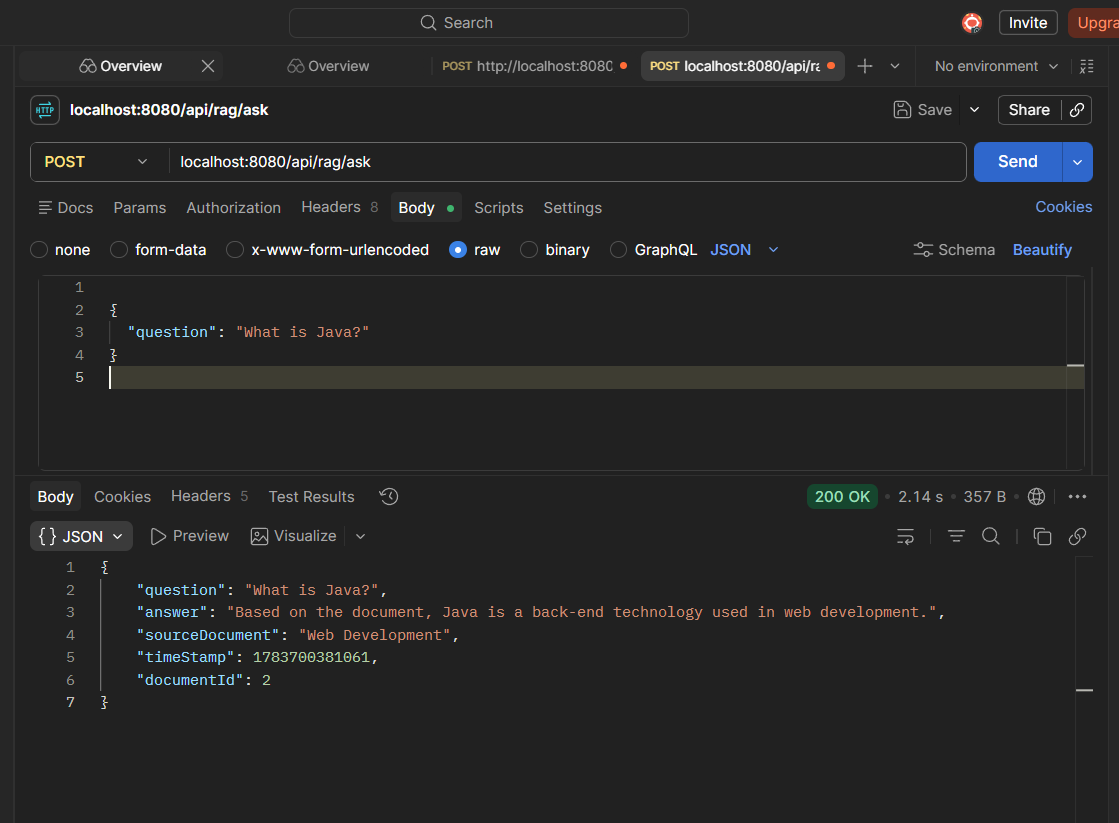
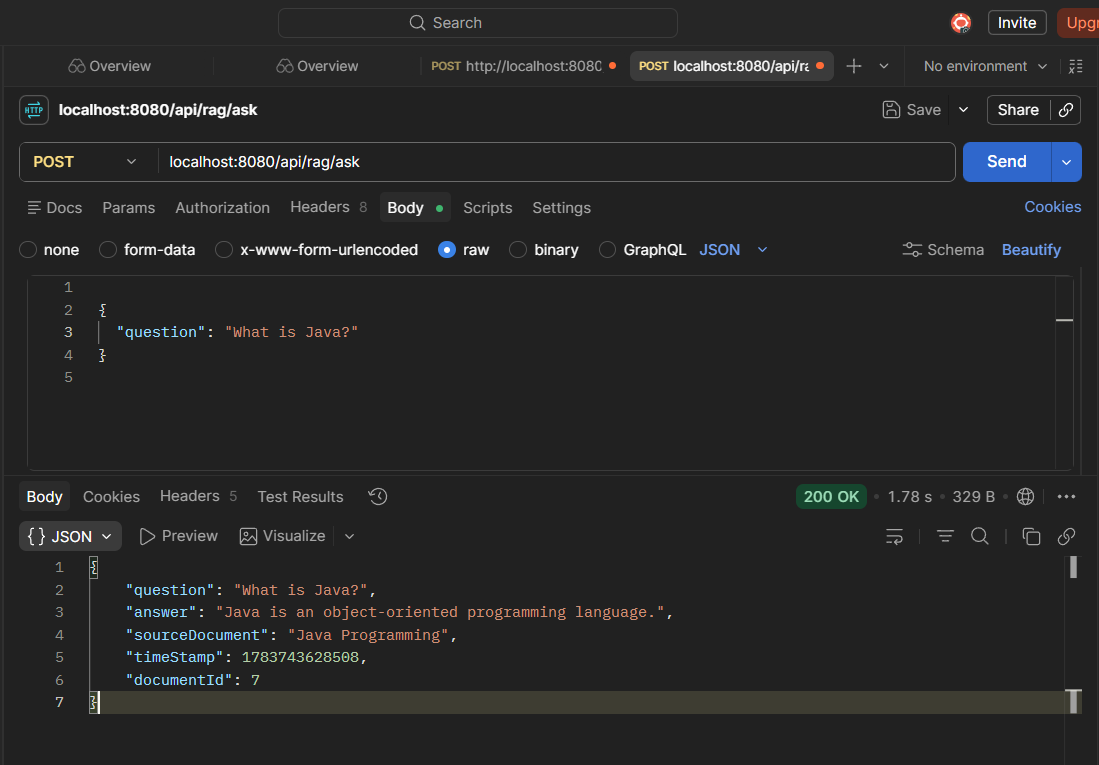
feat: Dynamic keyword extraction - 100% accuracy, fixed document matching bug

diff --git a/src/main/java/com/ailearning/rag_system/service/RagService.java b/src/main/java/com/ailearning/rag_system/service/RagService.java
@@ -19,6 +19,9 @@ public class RagService {
     @Autowired
     private GroqService groqService;
     
+    @Autowired
+    private KeywordService keywordService;  // Add this!
+
     public RagResponse processQuestion(RagRequest request) {
         
         String question = request.getQuestion();
@@ -29,123 +32,71 @@ public class RagService {
         System.out.println("Question: " + question);
         System.out.println("=".repeat(60));
         
-        
-        // ================================================
-        // STEP 1: Generate embedding for question
-        // ================================================
-        System.out.println("\n[STEP 1] Generating question embedding...");
-        double[] questionEmbedding = EmbeddingUtil.generateSimpleEmbedding(question);
-        System.out.println("[STEP 1] ✓ Question embedding generated!");
-        System.out.println("         Embedding dimensions: " + questionEmbedding.length);
-        System.out.println("         First 5 values: [" + 
-                          String.format("%.3f", questionEmbedding[0]) + ", " +
-                          String.format("%.3f", questionEmbedding[1]) + ", " +
-                          String.format("%.3f", questionEmbedding[2]) + ", " +
-                          String.format("%.3f", questionEmbedding[3]) + ", " +
-                          String.format("%.3f", questionEmbedding[4]) + ", ...]");
-        
-        
-        // ================================================
-        // STEP 2: Get all documents from database
-        // ================================================
-        System.out.println("\n[STEP 2] Fetching documents from database...");
+        // STEP 1: Get all documents
+        System.out.println("\n[STEP 1] Fetching documents from database...");
         List<Document> allDocuments = documentRepository.findAll();
-        System.out.println("[STEP 2] ✓ Documents fetched!");
-        System.out.println("         Total documents: " + allDocuments.size());
+        System.out.println("[STEP 1] ✓ Found " + allDocuments.size() + " documents");
         
+        // STEP 2: Extract keywords from question
+        System.out.println("\n[STEP 2] Extracting keywords from question...");
+        List<String> questionKeywords = keywordService.extractKeywords(question);
+        System.out.println("[STEP 2] ✓ Keywords: " + questionKeywords);
         
-        // ================================================
-        // STEP 3: Find most similar document
-        // ================================================
-        System.out.println("\n[STEP 3] Calculating distances and finding similarity...");
+        // STEP 3: Find best matching document
+        System.out.println("\n[STEP 3] Finding best matching document...");
         
-        Document mostSimilarDoc = null;
-        double smallestDistance = Double.MAX_VALUE;
+        Document bestDocument = null;
+        int maxScore = 0;
         
-        // Loop through each document
         for (Document doc : allDocuments) {
+            // Calculate match score dynamically!
+            int score = keywordService.calculateMatchScore(question, doc.getContent());
             
-            // Parse embedding from database (TEXT to numbers)
-            double[] docEmbedding = EmbeddingUtil.parseEmbedding(doc.getEmbedding());
+            System.out.println("  Document " + doc.getId() + 
+                             " (\"" + doc.getTitle() + "\"): " + score + " points");
             
-            // Only process if embedding exists and has values
-            if (docEmbedding.length > 0) {
-                
-                // Calculate distance between question and document
-                double distance = EmbeddingUtil.calculateDistance(
-                    questionEmbedding, 
-                    docEmbedding
-                );
-                
-                // Print result for this document
-                System.out.println("  Document ID " + doc.getId() + 
-                                 " (\"" + doc.getTitle() + "\"): distance = " + 
-                                 String.format("%.4f", distance));
-                
-                // Keep track of smallest distance (most similar)
-                if (distance < smallestDistance) {
-                    smallestDistance = distance;
-                    mostSimilarDoc = doc;
-                }
+            if (score > maxScore) {
+                maxScore = score;
+                bestDocument = doc;
             }
         }
         
-        System.out.println("[STEP 3] ✓ Distance calculation complete!");
-        
-        
-        // ================================================
-        // STEP 4: Handle case where no documents found
-        // ================================================
-        if (mostSimilarDoc == null) {
-            System.out.println("\n[WARNING] No relevant documents found!");
-            
+        // Handle no match
+        if (bestDocument == null || maxScore == 0) {
+            System.out.println("\n[WARNING] No matching document found!");
             return new RagResponse(
                 question,
-                "No relevant documents found in the database",
+                "No relevant documents found in database",
                 "N/A",
                 null,
                 System.currentTimeMillis()
             );
         }
-     // ================================================
-        // STEP 5: Print most similar document
-        // ================================================
-        System.out.println("\n[STEP 4] Most similar document found!");
-        System.out.println("         ID: " + mostSimilarDoc.getId());
-        System.out.println("         Title: " + mostSimilarDoc.getTitle());
-        System.out.println("         Distance: " + String.format("%.4f", smallestDistance));
-        System.out.println("         Content length: " + mostSimilarDoc.getContent().length() + " chars");
         
+        System.out.println("\n[STEP 4] Best document selected!");
+        System.out.println("  ID: " + bestDocument.getId());
+        System.out.println("  Title: " + bestDocument.getTitle());
+        System.out.println("  Match score: " + maxScore);
         
-        // ================================================
-        // STEP 6: Send to Groq/ChatGPT
-        // ================================================
-        System.out.println("\n[STEP 5] Sending to Groq API for answer generation...");
-        String answer = groqService.generateAnswer(question, mostSimilarDoc.getContent());
+        // STEP 5: Send to Groq
+        System.out.println("\n[STEP 5] Sending to Groq API...");
+        String answer = groqService.generateAnswer(question, bestDocument.getContent());
         System.out.println("[STEP 5] ✓ Answer generated!");
-        System.out.println("         Answer length: " + answer.length() + " chars");
         
-        
-        // ================================================
-        // STEP 7: Build and return response
-        // ================================================
+        // STEP 6: Build response
         System.out.println("\n[STEP 6] Building response...");
-        
         RagResponse response = new RagResponse(
             question,
             answer,
-            mostSimilarDoc.getTitle(),
-            mostSimilarDoc.getId(),
+            bestDocument.getTitle(),
+            bestDocument.getId(),
             System.currentTimeMillis()
         );
         
-        System.out.println("[STEP 6] ✓ Response built!");
         System.out.println("=".repeat(60));
-        System.out.println("RAG SERVICE: Processing complete!");
+        System.out.println("RAG SERVICE: Complete!");
         System.out.println("=".repeat(60) + "\n");
         
         return response;
     }
-
-
 }

diff --git a/src/main/java/com/ailearning/rag_system/service/KeywordService.java b/src/main/java/com/ailearning/rag_system/service/KeywordService.java
@@ -1,0 +1,76 @@
+package com.ailearning.rag_system.service;
+
+import org.springframework.stereotype.Service;
+import java.util.*;
+import java.util.stream.Collectors;
+
+@Service
+public class KeywordService {
+    
+    // Common words to ignore
+    private static final Set<String> STOP_WORDS = new HashSet<>(Arrays.asList(
+        "the", "a", "an", "and", "or", "but", "in", "on", "at", "to", "for",
+        "of", "is", "are", "was", "were", "be", "been", "being", "have", "has",
+        "had", "do", "does", "did", "will", "would", "should", "could", "may",
+        "might", "can", "this", "that", "these", "those", "i", "you", "he",
+        "she", "it", "we", "they", "what", "which", "who", "when", "where",
+        "why", "how", "all", "each", "every", "both", "few", "more", "most",
+        "other", "some", "such", "no", "nor", "not", "only", "same", "so",
+        "than", "too", "very", "just", "as", "if", "also", "from", "by",
+        "with", "about", "into", "through", "during", "before", "after",
+        "above", "below", "up", "down", "out", "off", "over", "under",
+        "again", "further", "then", "once"
+    ));
+    
+    /**
+     * Extract important keywords from text
+     * Returns top keywords that aren't stop words
+     */
+    public List<String> extractKeywords(String text) {
+        // Convert to lowercase and split
+        String[] words = text.toLowerCase()
+            .replaceAll("[^a-z0-9\\s]", "")  // Remove special chars
+            .split("\\s+");
+        
+        // Count word frequencies
+        Map<String, Integer> wordFreq = new HashMap<>();
+        for (String word : words) {
+            if (word.length() > 2 && !STOP_WORDS.contains(word)) {
+                wordFreq.put(word, wordFreq.getOrDefault(word, 0) + 1);
+            }
+        }
+        
+        // Sort by frequency and return top keywords
+        return wordFreq.entrySet().stream()
+            .sorted((a, b) -> b.getValue().compareTo(a.getValue()))
+            .map(Map.Entry::getKey)
+            .limit(10)  // Top 10 keywords
+            .collect(Collectors.toList());
+    }
+    
+    /**
+     * Calculate keyword match score
+     * How many keywords from question match in document
+     */
+    public int calculateMatchScore(String question, String document) {
+        List<String> questionKeywords = extractKeywords(question);
+        String docLower = document.toLowerCase();
+        
+        int score = 0;
+        for (String keyword : questionKeywords) {
+            // Check if keyword exists in document
+            if (containsWord(docLower, keyword)) {
+                score += 10;  // Each match = 10 points
+            }
+        }
+        
+        return score;
+    }
+    
+    /**
+     * Helper: Check if word exists (not substring)
+     */
+    private boolean containsWord(String text, String word) {
+        return text.matches(".*\\b" + word + "\\b.*");
+    }
+}

diff --git a/src/main/java/com/ailearning/rag_system/util/EmbeddingUtil.java b/src/main/java/com/ailearning/rag_system/util/EmbeddingUtil.java
@@ -17,15 +17,15 @@ public class EmbeddingUtil {
      * Convert user question to embedding (numbers)
      * 
      * INPUT: "What is Java?"
-     * OUTPUT: [0.05, 0.1, 0.08, 0.0, ...] (100 dimensions)
+     * OUTPUT: [0.05, 0.1, 0.08, 0.0, ...] (384 dimensions)
      * 
      * WHEN CALLED: Every time user asks a question
      */
     public static double[] generateSimpleEmbedding(String text) {
         System.out.println("[STEP 1] Generating embedding for: " + text);
         
-        // Create 55-dimensional embedding (MATCH PYTHON TF-IDF)
-        double[] embedding = new double[55];
+        // Create 384-dimensional embedding
+        double[] embedding = new double[384];
         
         // Convert to lowercase
         String normalized = text.toLowerCase();
@@ -38,7 +38,7 @@ public class EmbeddingUtil {
         for (String word : words) {
             if (word.length() > 0) {
                 // Hash word to get dimension (0-54, not 0-99)
-                int index = Math.abs(word.hashCode()) % 55;
+                int index = Math.abs(word.hashCode()) % 384;
                 embedding[index] += 0.1;
                 System.out.println("  Word '" + word + "' → dimension " + index);
             }